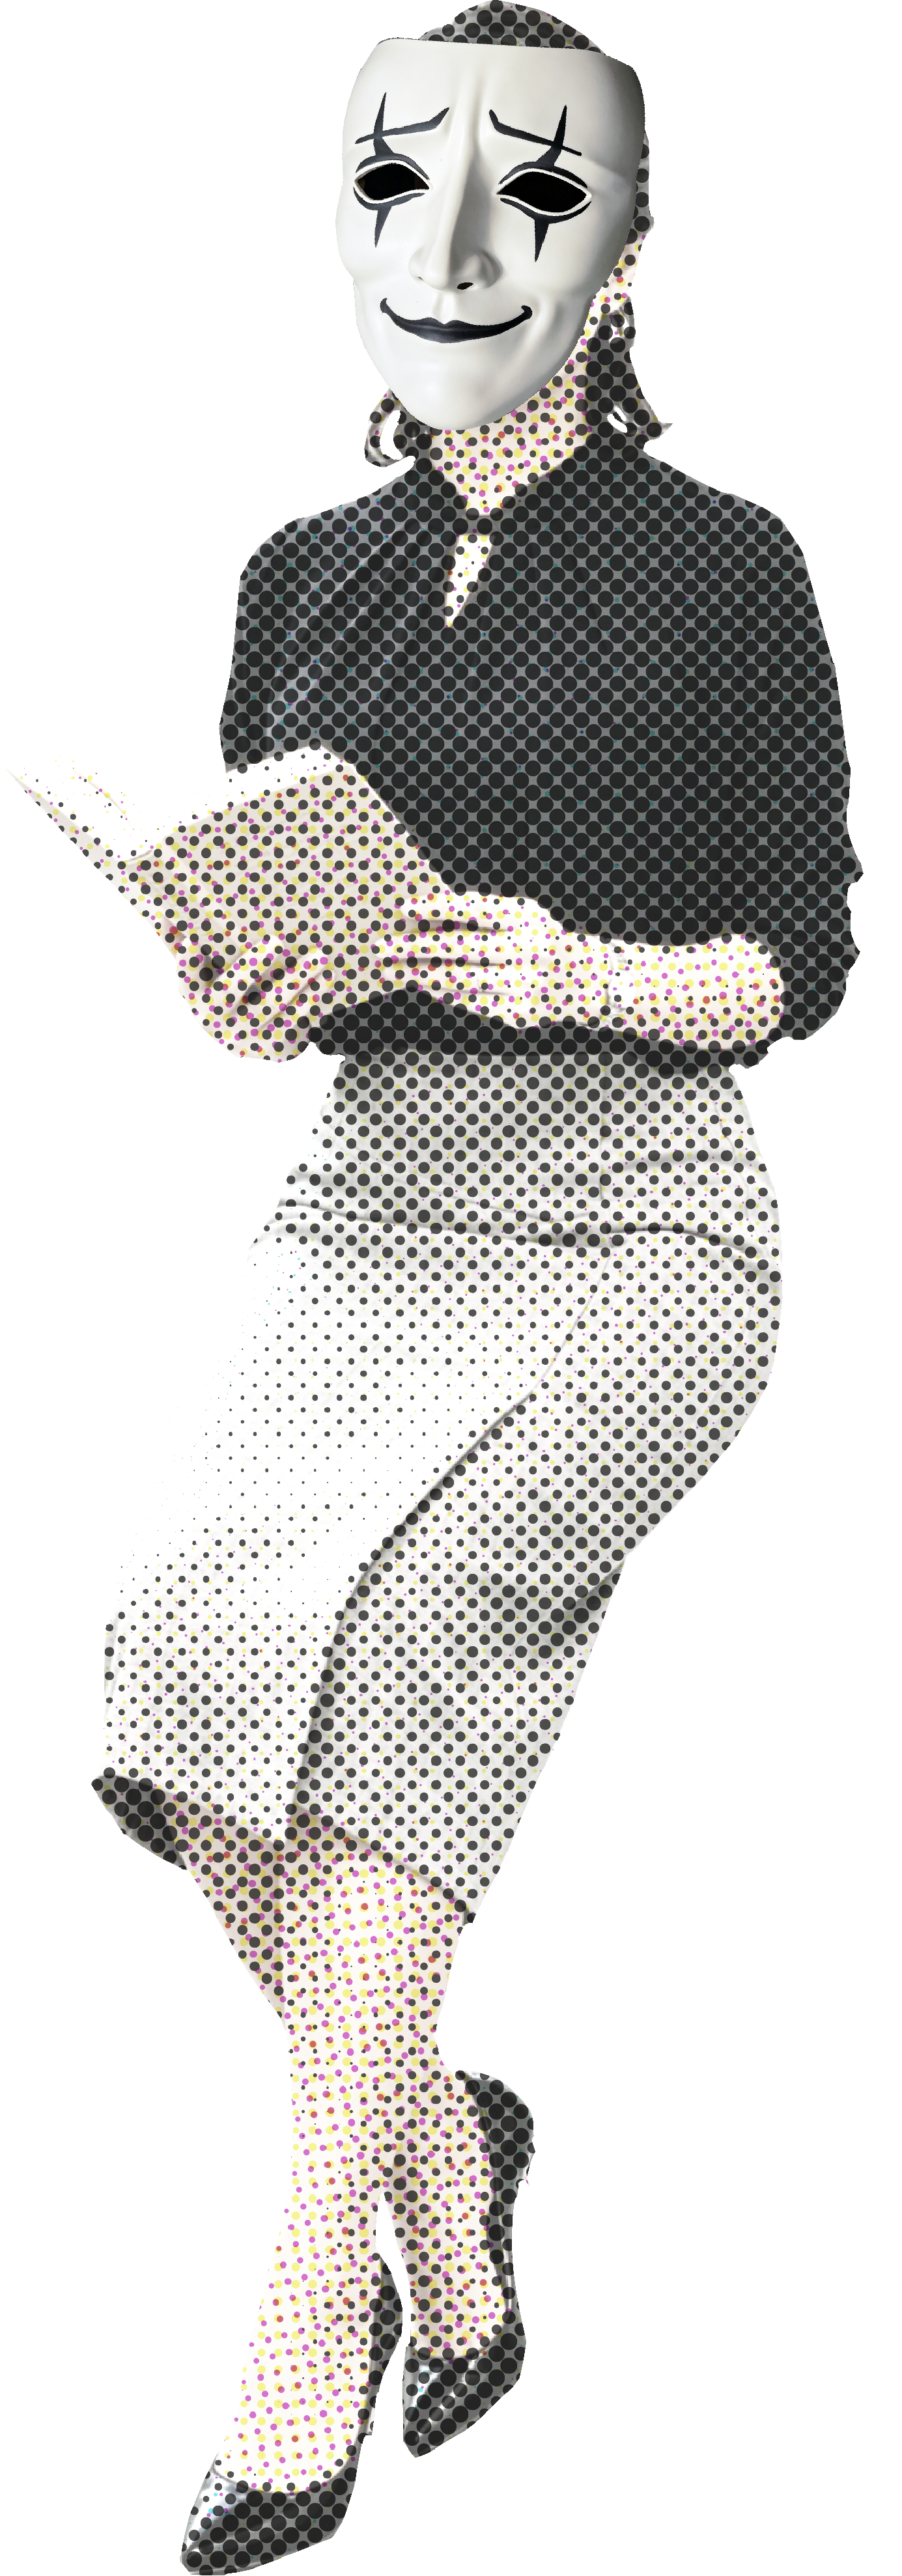
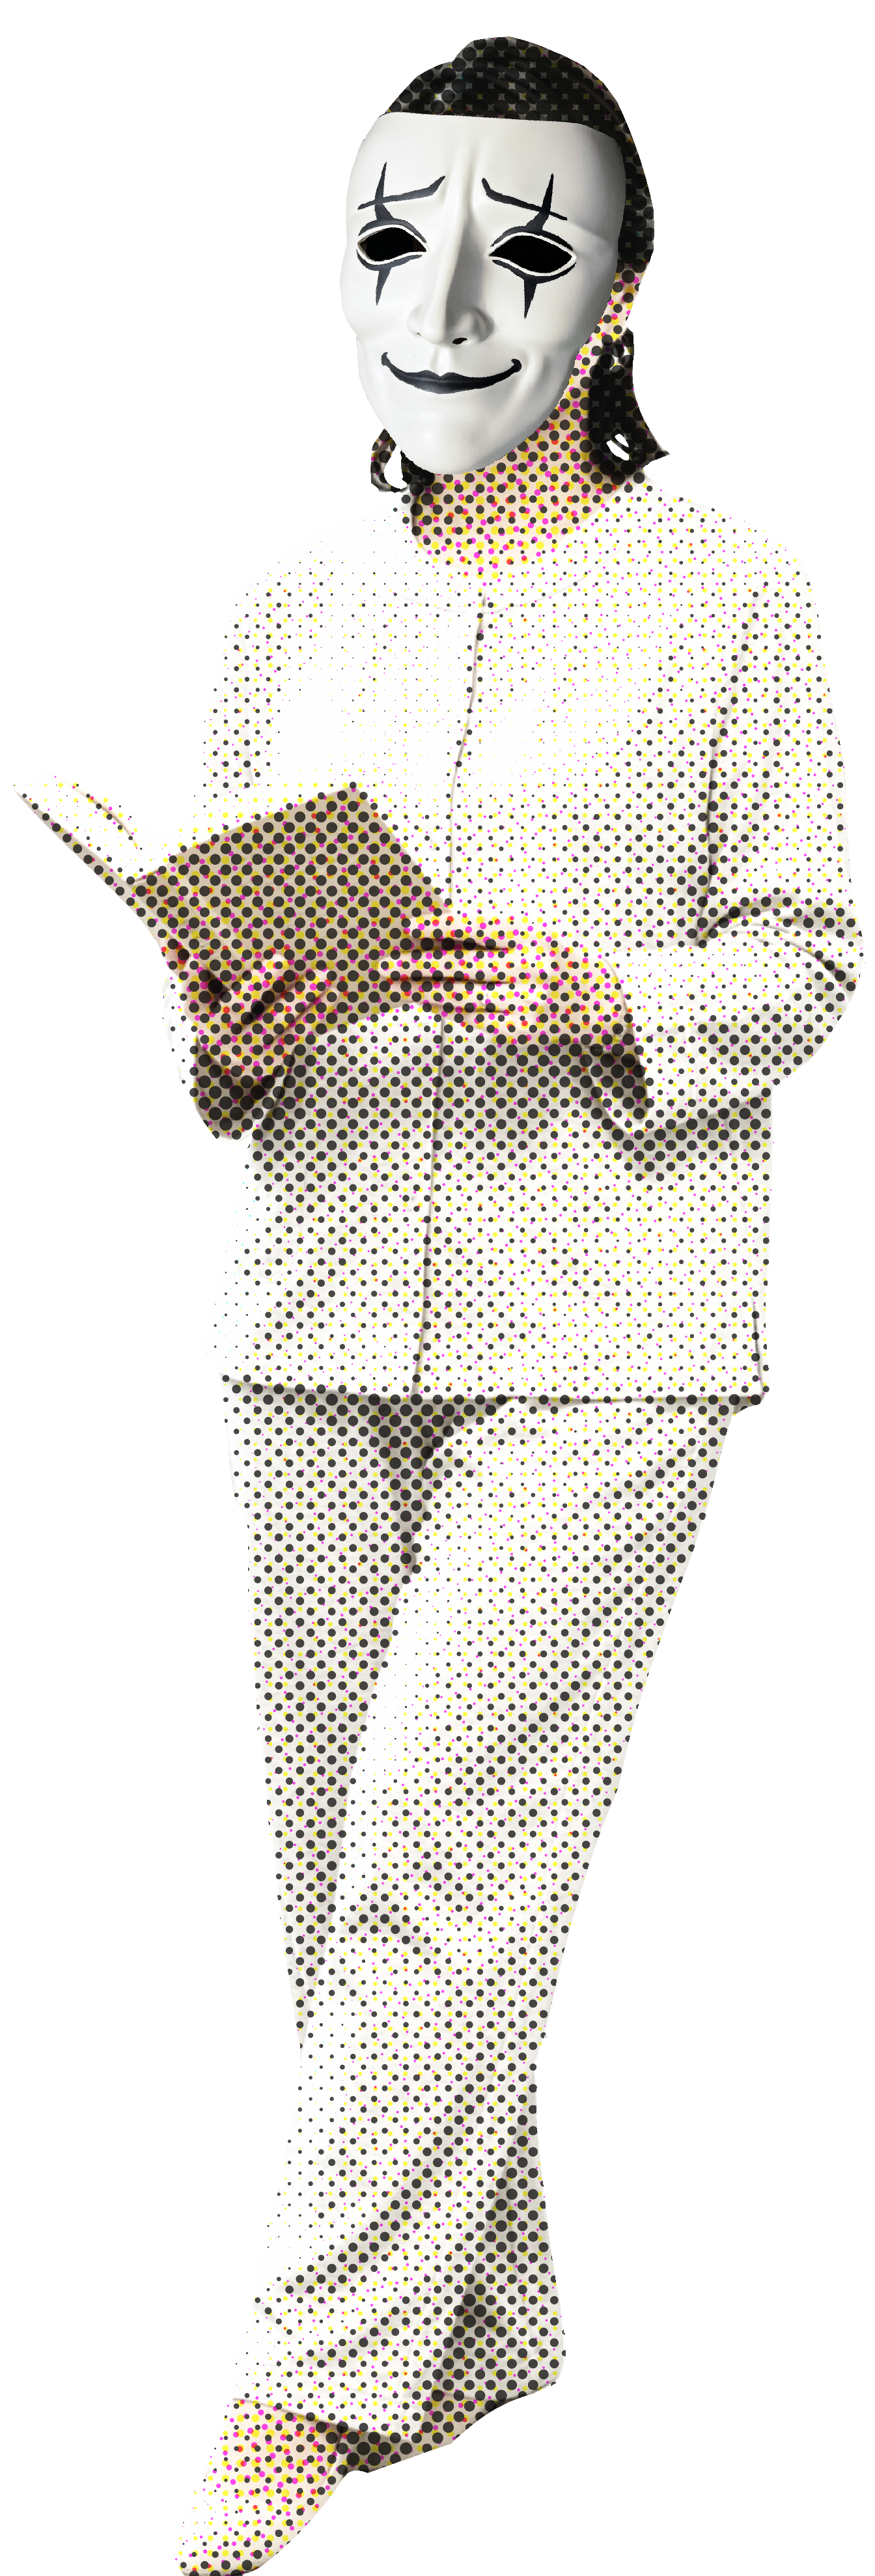
5月10日更新

diff --git a/Assets/Script/DialogSystem.cs b/Assets/Script/DialogSystem.cs
@@ -27,17 +27,21 @@ public class DialogSystem : MonoBehaviour
 
     public TMP_Text dialogtext;
 
-    public List<Dialogrows> dialogrow=new List<Dialogrows>();
+    public List<Dialogrows> dialogrows=new List<Dialogrows>();
+
+    public List<TMP_Text> dialog_positions=new List<TMP_Text>();
+
+    public List<SpriteRenderer> SpriteRenderers = new List<SpriteRenderer>();
 
     public void ReadDialog(string str)
     {
         jsonfile = Resources.Load<TextAsset>(str);
-        dialogrow= JsonConvert.DeserializeObject<List<Dialogrows>>(jsonfile.text);
+        dialogrows= JsonConvert.DeserializeObject<List<Dialogrows>>(jsonfile.text);
     }
 
-    public void ShowText(string text,string text_position)
+    public void ShowDialog(string dialog,string dialog_position)
     {
-
+        
     }
 
     public void ShowImage(string image_name,string image_position)
@@ -50,15 +54,21 @@ public class DialogSystem : MonoBehaviour
 
     }
 
-    public void ShowDialog()
+    public void Show()
     {
 
     }
 
-    public void Awake()
+    public void CloseDialogWindow(string dialogwindow)
+    {
+
+    }
+    private void Awake()
     {
         ReadDialog("storyline");
 
     }
+
+
 
 }

diff --git a/Assets/Script/ButtonManager.cs b/Assets/Script/ButtonManager.cs
@@ -1,0 +1,18 @@
+using System.Collections;
+using System.Collections.Generic;
+using UnityEngine;
+
+public class ButtonManager : MonoBehaviour
+{
+    // Start is called before the first frame update
+    void Start()
+    {
+        
+    }
+
+    // Update is called once per frame
+    void Update()
+    {
+        
+    }
+}

diff --git a/Assets/Script/AdaptToCamera_SpriteRenderer.cs b/Assets/Script/AdaptToCamera_SpriteRenderer.cs
@@ -20,7 +20,7 @@ public class AdaptToCamera_SpriteRenderer : MonoBehaviour
         float scaleX = screenX / spriteX;
         float scaleY = screenY / spriteY;
 
-        float uniformScale = Mathf.Min(scaleX, scaleY);
+        float uniformScale =0.8f*Mathf.Min(scaleX, scaleY);
 
         transform.localScale = new Vector3(uniformScale, uniformScale, 1f);
     }